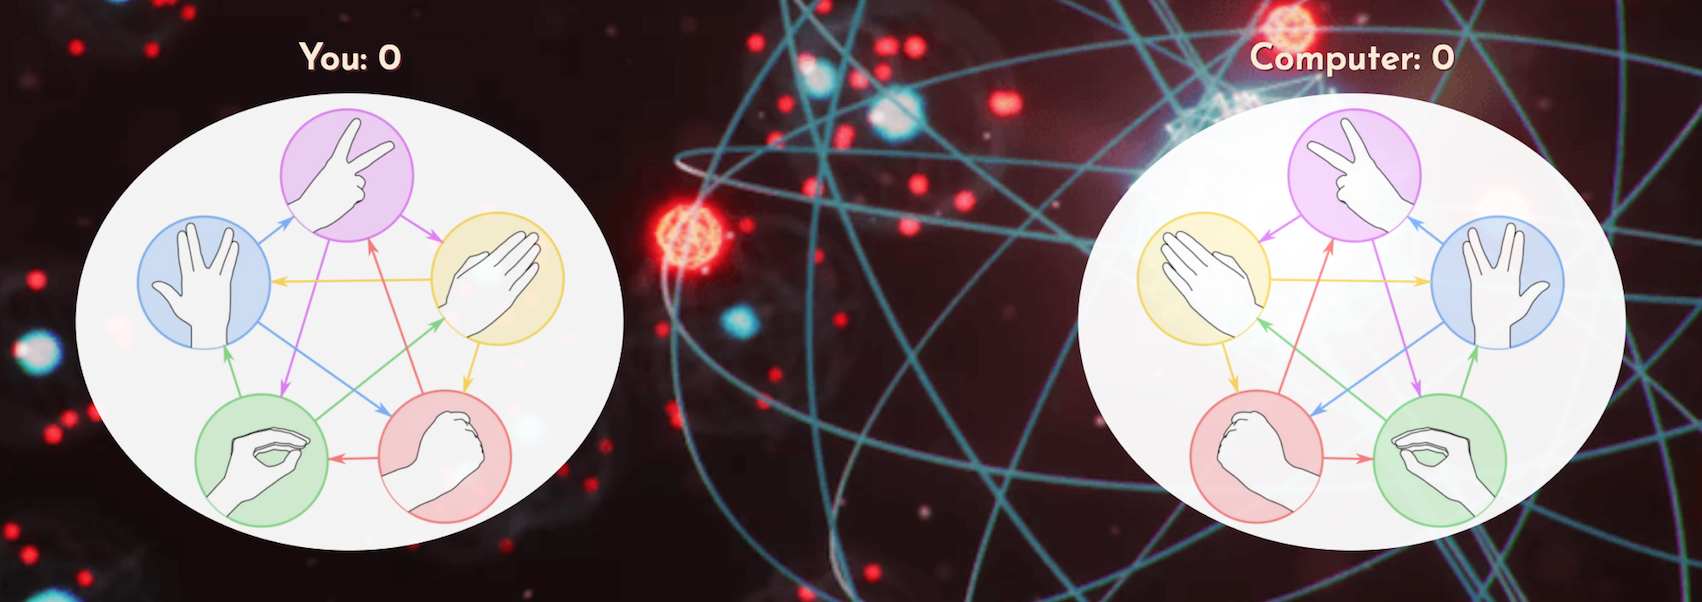
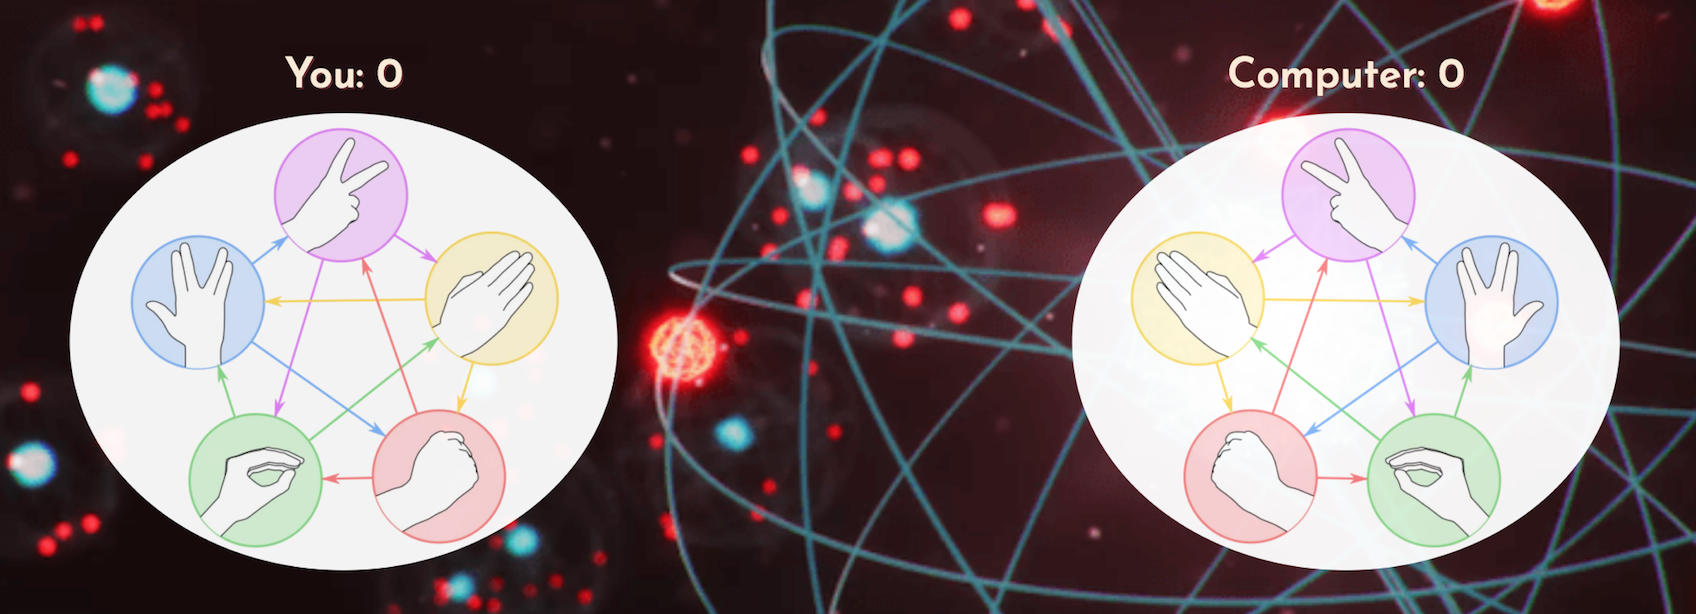
Fix text-shadow on some text

diff --git a/assets/css/style.css b/assets/css/style.css
@@ -34,7 +34,7 @@ body {
     margin: 0;
     font-family: "Josefin Sans", sans-serif;
     color: antiquewhite;
-    text-shadow: 2px 2px #0c2955;
+    text-shadow: 3px 3px #0c2955;
 }
 
 #heading {
@@ -94,9 +94,9 @@ body {
 
 .scores {
     color: antiquewhite;;
-    font-size: 130%;
+    font-size: 150%;
     margin-bottom: 0;
-    text-shadow: 1px 1px #672e35;
+    text-shadow: 3px 3px #672e35;
 }
 
 .game-wrapper {
@@ -147,7 +147,7 @@ footer {
     /*webkit-column-count: 2;
     moz-column-count: 2;
     column-count: 2;*/
-    font-size: 100%;
+    font-size: 120%;
     justify-content: space-evenly;
 }
 
@@ -181,9 +181,13 @@ li {
     }
 }
 
-@media (max-width: 736px) {
+@media (max-width: 768px) {
     #heading {
         margin: 5px;
+    }
+
+    footer {
+        margin-top: 20rem;
     }
 }
 
